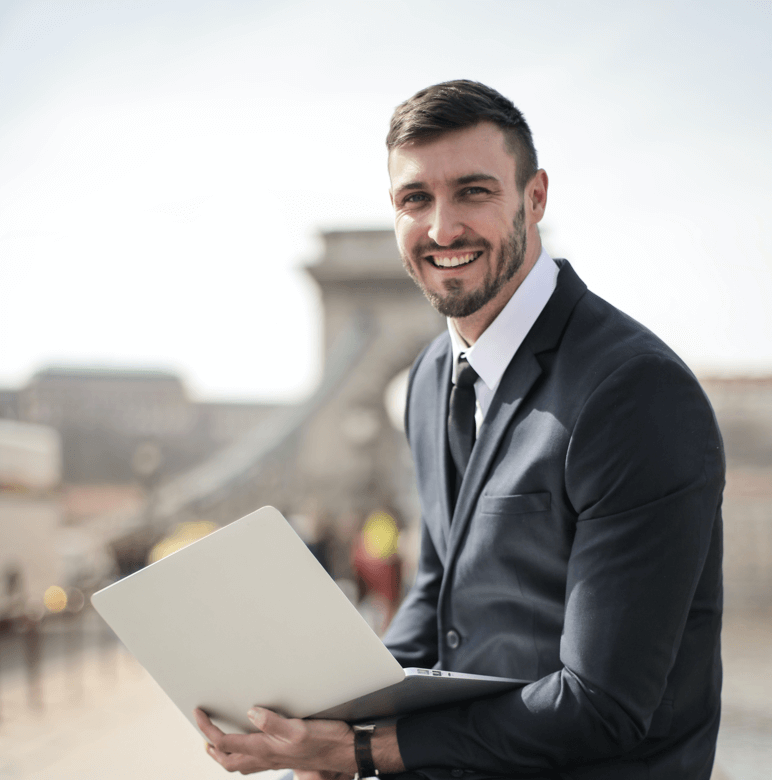
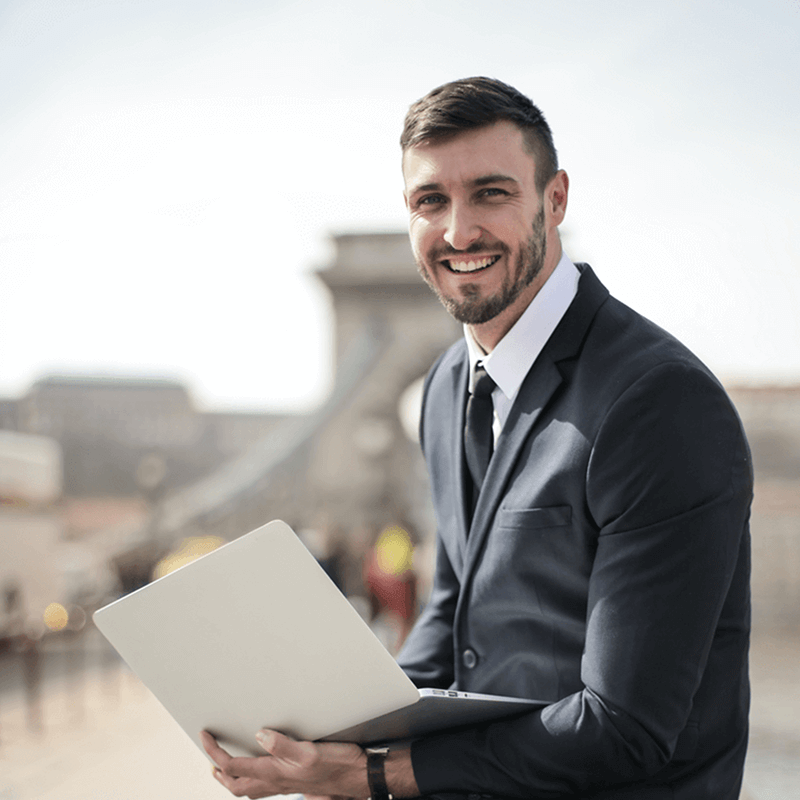
.

diff --git a/src/pages/MainPage.jsx b/src/pages/MainPage.jsx
@@ -3,7 +3,7 @@ import Navbar from "../components/Navbar";
 import Hero1 from "../assets/hero1.jpg";
 import Hero2 from "../assets/hero2.jpg";
 import Hero3 from "../assets/hero3.png";
-import Hero4 from "../assets/hero4.jpg";
+import Hero4 from "../assets/hero4.png";
 import Client1 from "../assets/client1.webp";
 import Client2 from "../assets/client2.png";
 import Client3 from "../assets/client3.png";
@@ -102,7 +102,7 @@ const MainPage = () => {
         maxWidth: "32rem",
         animation: "fade 6s infinite",
       }}
-      className="relative w-full h-full"
+      className="relative w-full"
     >
       <div
         style={{ backdropFilter: "blur(14px)" }}
